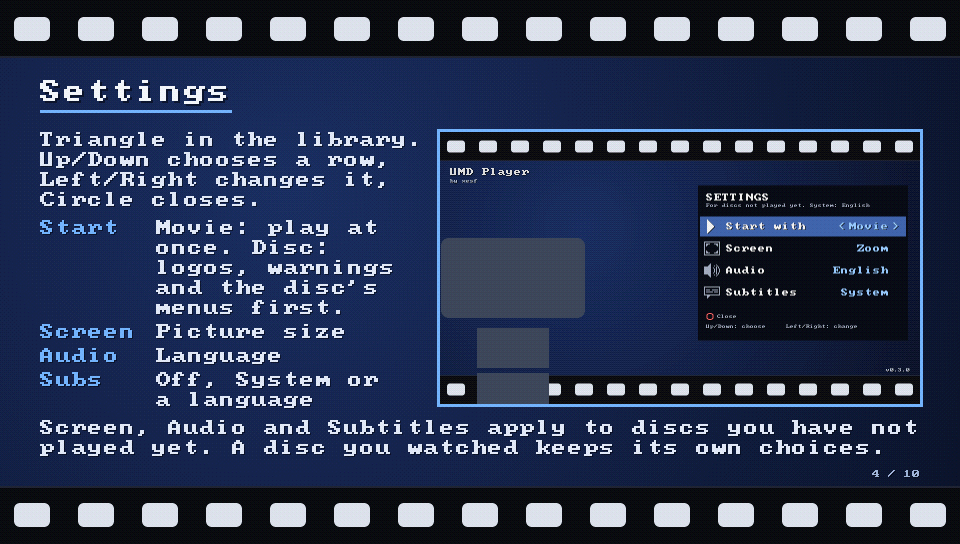
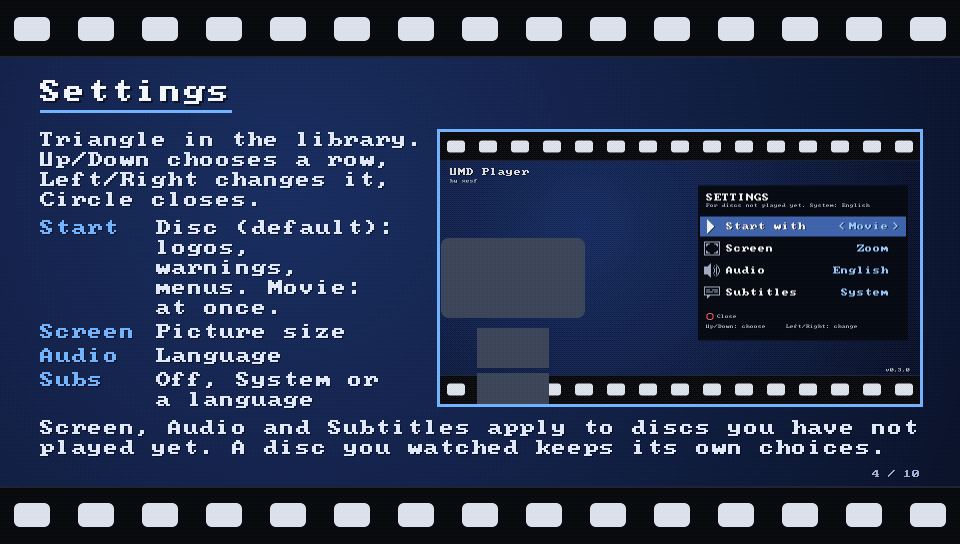
Release v0.6.4: Disc by default, key hints on desktop, settings hint
"Start with" defaults to Disc; a saved Movie setting is kept.

plat_keyboard_ui says whether hints should name keys: on the Vita never,
on macOS always, on Windows and Linux after a key press until a gamepad is
used (and not at first under Steam's Gaming Mode or on the Deck).
osd_button draws the button's icon or a key cap (Space, Esc, W, A), and
every hint goes through it; the library redraws when the input changes.

The library shows "Triangle Settings" (or W) left of the version.

Changed region(s): [[0.1562, 0.4062, 0.4062, 0.5938]]

diff --git a/src/app/library.c b/src/app/library.c
@@ -139,6 +139,7 @@ struct library {
     int show_info;                   /* SELECT toggles the title and resume panel */
     int touch_down, touch_x0, touch_y0, touch_step_y, touch_moved;   /* a finger on the screen */
     int settings_open, settings_row; /* △: the defaults for new discs */
+    int keys_shown;                  /* the hints name keyboard keys (plat_keyboard_ui) */
     int marks_stale;                 /* reread the resume points: a movie was played */
 };
 
@@ -690,9 +691,13 @@ static void draw_info(library *l)
     canvas *c = &l->ui;
     int x = PANEL_X + 16, y = BIG_Y, tx = x + 2 * ICON_SIZE + 8, w = 300;
     char title[96], at[16], total[16], line[48];
+    int bw = osd_button_width(ICON_BUTTON_CROSS, 2);
 
     if (!l->show_info)
         return;
+    if (osd_button_width(ICON_BUTTON_SQUARE, 2) > bw)
+        bw = osd_button_width(ICON_BUTTON_SQUARE, 2);
+    tx = x + bw + 8;
     canvas_text_fit(title, sizeof(title), d->title, 2, PANEL_W - 32);
     canvas_round_darken(c, PANEL_X, BIG_Y, PANEL_W, 2 * ICON_H, BIG_R, 90);   /* as tall as the icon */
     if (!d->has_resume) {
@@ -703,7 +708,7 @@ static void draw_info(library *l)
     }
     format_time(at, sizeof(at), d->resume_pos - d->resume_start);
     canvas_text(c, x, y + 18, 2, RGBA(255, 255, 255, 255), title);
-    canvas_icon(c, ICON_BUTTON_CROSS, x, y + 46, 2, COLOR_CROSS);
+    osd_button(c, x, y + 46, 2, ICON_BUTTON_CROSS);
     if (d->resume_disc) {
         snprintf(line, sizeof(line), "Continue where you left off");
     } else if (d->resume_end > d->resume_start) {
@@ -717,7 +722,7 @@ static void draw_info(library *l)
         snprintf(line, sizeof(line), "Resume at %s", at);
     }
     canvas_text(c, tx, y + 54, 2, RGBA(255, 255, 255, 255), line);
-    canvas_icon(c, ICON_BUTTON_SQUARE, x, y + 106, 2, COLOR_SQUARE);
+    osd_button(c, x, y + 106, 2, ICON_BUTTON_SQUARE);
     canvas_text(c, tx, y + 114, 2, TEXT_DIM, "Play from the start");
 }
 
@@ -946,6 +951,18 @@ static void draw_app_name(canvas *c, int y)
     canvas_text(c, 20, y + 22, 1, TEXT_DIM, "by xesf");
 }
 
+/* The version at the bottom right; with settings, the button that opens them to its left. */
+static void draw_version(canvas *c, int y, int settings)
+{
+    int vx = UI_W - 20 - canvas_text_width("v" UMDPLAYER_VERSION, 1);
+
+    canvas_text(c, vx, y, 1, TEXT_DIM, "v" UMDPLAYER_VERSION);
+    if (settings) {
+        int w = osd_button_width(ICON_BUTTON_TRIANGLE, 1) + 6 + canvas_text_width("Settings", 1);
+        osd_draw_hint(c, vx - 24 - w, y - 4, ICON_BUTTON_TRIANGLE, "Settings");
+    }
+}
+
 static void draw_ui(library *l)
 {
     canvas *c = &l->ui;
@@ -980,8 +997,7 @@ static void draw_ui(library *l)
     draw_settings(l);
     /* On the backdrop (a disc without PIC1), keep clear of its film strips. */
     draw_app_name(c, l->bg ? 18 : 72);
-    canvas_text(c, UI_W - 20 - canvas_text_width("v" UMDPLAYER_VERSION, 1), l->bg ? UI_H - 18 : UI_H - 72, 1, TEXT_DIM,
-                "v" UMDPLAYER_VERSION);
+    draw_version(c, l->bg ? UI_H - 18 : UI_H - 72, !l->settings_open);
 
     l->info.ui_rgba = c->rgba;
     l->info.ui_w = c->w;
@@ -1185,12 +1201,12 @@ static void draw_empty(library *l)
     y += 40;
     {
         const char *again = "Look again";
-        int x = (UI_W - (ICON_SIZE * 2 + 10 + canvas_text_width(again, 2))) / 2;
-        canvas_icon(c, ICON_BUTTON_CROSS, x, y - 8, 2, COLOR_CROSS);
-        canvas_text(c, x + ICON_SIZE * 2 + 10, y, 2, TEXT_DIM, again);
+        int bw = osd_button_width(ICON_BUTTON_CROSS, 2);
+        int x = (UI_W - (bw + 10 + canvas_text_width(again, 2))) / 2;
+        osd_button(c, x, y - 8, 2, ICON_BUTTON_CROSS);
+        canvas_text(c, x + bw + 10, y, 2, TEXT_DIM, again);
     }
-    canvas_text(c, UI_W - 20 - canvas_text_width("v" UMDPLAYER_VERSION, 1), UI_H - 72, 1, TEXT_DIM,
-                "v" UMDPLAYER_VERSION);   /* above the film strip */
+    draw_version(c, UI_H - 72, 0);   /* above the film strip */
     l->info.ui_rgba = c->rgba;
     l->info.ui_w = c->w;
     l->info.ui_h = c->h;
@@ -1250,6 +1266,11 @@ static uint32_t touch_buttons(library *l)
 int library_update(library *l, uint32_t pressed)
 {
     int present = 0;
+
+    if (plat_keyboard_ui() != l->keys_shown) {   /* keys or a gamepad: redraw the hints */
+        l->keys_shown = plat_keyboard_ui();
+        l->ui_dirty = 1;
+    }
 
     if (l->count == 0) {
         if (pressed & PLAT_BTN_CROSS) {

diff --git a/src/app/osd.c b/src/app/osd.c
@@ -1,5 +1,7 @@
 #include "osd.h"
 
+#include "../platform/platform.h"
+
 #include <stdio.h>
 #include <string.h>
 
@@ -28,10 +30,44 @@ static uint32_t button_color(icon_id b)
     }
 }
 
+/* The keys of docs/desktop.md's table, for the buttons that hints name. */
+static const char *key_name(icon_id b)
+{
+    switch (b) {
+    case ICON_BUTTON_CROSS: return "Space";
+    case ICON_BUTTON_CIRCLE: return "Esc";
+    case ICON_BUTTON_TRIANGLE: return "W";
+    case ICON_BUTTON_SQUARE: return "A";
+    default: return NULL;
+    }
+}
+
+int osd_button_width(icon_id button, int scale)
+{
+    const char *key = plat_keyboard_ui() ? key_name(button) : NULL;
+    return key ? canvas_text_width(key, scale) + 8 * scale : ICON_SIZE * scale;
+}
+
+int osd_button(canvas *c, int x, int y, int scale, icon_id button)
+{
+    const char *key = plat_keyboard_ui() ? key_name(button) : NULL;
+    int w = osd_button_width(button, scale), h = ICON_SIZE * scale;
+
+    if (!key) {
+        canvas_icon(c, button, x, y, scale, button_color(button));
+        return w;
+    }
+    /* a key cap: the key's name in a rounded outline, in the button's colour */
+    canvas_round_rect(c, x, y, w, h, 3 * scale, RGBA(20, 24, 36, 200));
+    canvas_round_ring(c, x, y, w, h, 3 * scale, scale, button_color(button));
+    canvas_text(c, x + 4 * scale, y + (h - 8 * scale) / 2, scale, TEXT, key);
+    return w;
+}
+
 int osd_draw_hint(canvas *c, int x, int y, icon_id button, const char *text)
 {
-    canvas_icon(c, button, x, y, 1, button_color(button));
-    return ICON_SIZE + 6 + canvas_text(c, x + ICON_SIZE + 6, y + 4, 1, TEXT_DIM, text) + 18;
+    int bw = osd_button(c, x, y, 1, button);
+    return bw + 6 + canvas_text(c, x + bw + 6, y + 4, 1, TEXT_DIM, text) + 18;
 }
 
 int osd_draw_status(canvas *c, int right, int top, const char *clock, int battery, int charging)

diff --git a/src/app/disc.c b/src/app/disc.c
@@ -367,12 +367,14 @@ int disc_update(disc *d, uint32_t pressed)
     {
         /* A page that takes the buttons over the movie (Saw's scene list): its Back may only
            hide it, and the way on is the PSP's menu button, so say which button that is. */
-        int hint = d->pl && !d->menu_video && !player_title_ended(d->pl) && menu_has_focus(d->m);
+        int hint = d->pl && !d->menu_video && !player_title_ended(d->pl) && menu_has_focus(d->m)
+                       ? 1 + plat_keyboard_ui() : 0;
         if (menu_dirty(d->m) || hint != d->hint_shown) {
             menu_draw(d->m, &d->layer);
             d->layer_shown = layer_has_pixels(&d->layer);
             if (hint) {
-                canvas_rect(&d->layer, 16, LAYER_H - 48, 150, 32, RGBA(10, 14, 28, 190));
+                canvas_rect(&d->layer, 16, LAYER_H - 48, 110 + osd_button_width(ICON_BUTTON_TRIANGLE, 1), 32,
+                            RGBA(10, 14, 28, 190));
                 osd_draw_hint(&d->layer, 24, LAYER_H - 40, ICON_BUTTON_TRIANGLE, "Disc menu");
                 d->layer_shown = 1;
             }

diff --git a/src/platform/linux/linux_main.c b/src/platform/linux/linux_main.c
@@ -182,12 +182,27 @@ static void poll_pads(void)
     }
 }
 
+/* The last input came from the keyboard; -1 before any. Steam sets SteamDeck on the Deck
+   and SteamGamepadUI in Gaming Mode, where the controls are a gamepad. */
+static int keys_last = -1;
+
 uint32_t plat_buttons(void)
 {
-    uint32_t b = key_buttons;
+    uint32_t pad = 0;
     for (int i = 0; i < pad_count; i++)
-        b |= pads[i].buttons | pads[i].hat | pads[i].stick;
-    return b;
+        pad |= pads[i].buttons | pads[i].hat | pads[i].stick;
+    if (pad)
+        keys_last = 0;
+    else if (key_buttons)
+        keys_last = 1;
+    return key_buttons | pad;
+}
+
+int plat_keyboard_ui(void)
+{
+    if (keys_last < 0)
+        return !getenv("SteamDeck") && !getenv("SteamGamepadUI");
+    return keys_last;
 }
 
 int plat_touch(int *x, int *y)

diff --git a/tools/make_manual.py b/tools/make_manual.py
@@ -166,7 +166,7 @@ def main():
     put_half(p.c, os.path.join(shots, 'settings.png'), W - LEFT - 480, p.y)
     p.para('Triangle in the library. Up/Down chooses a row, Left/Right changes it, Circle closes.',
            chars=25)
-    p.rows([('Start', 'Movie: play at once. Disc: logos, warnings and the disc\'s menus first.'),
+    p.rows([('Start', 'Disc (default): logos, warnings, menus. Movie: at once.'),
             ('Screen', 'Picture size'), ('Audio', 'Language'), ('Subs', 'Off, System or a language')],
            key_w=116, chars=15)
     p.y = max(p.y, BAND + 74 + 272 + 16)

diff --git a/src/app/osd.h b/src/app/osd.h
@@ -50,5 +50,9 @@ void osd_bar_area(int w, int h, int *top, int *x0, int *x1);
 
 /* A key hint: a button icon followed by text. Returns the width drawn. */
 int osd_draw_hint(canvas *c, int x, int y, icon_id button, const char *text);
+/* A button (ICON_BUTTON_*) ICON_SIZE * scale high: its icon on the Vita and with a gamepad,
+   the key that does the same on a keyboard ("Space"). Returns the width drawn. */
+int osd_button(canvas *c, int x, int y, int scale, icon_id button);
+int osd_button_width(icon_id button, int scale);
 
 #endif

diff --git a/src/platform/platform.h b/src/platform/platform.h
@@ -135,6 +135,9 @@ void plat_language(char out[3]);
 /* One character the 8x8 font lacks, drawn with the system's fonts: see canvas_glyph_fn in
    core/canvas.h. Returns 0 when no font has it. */
 int plat_glyph(uint32_t cp, int px, uint8_t *alpha);
+/* 1 when the hints on screen should name keyboard keys (Space, Esc, W, A) instead of the
+   Vita's buttons: on computers, until a gamepad is used. */
+int plat_keyboard_ui(void);
 
 typedef struct plat_status {
     int year, month, day, hour, minute;   /* local time */

diff --git a/src/platform/windows/win_main.c b/src/platform/windows/win_main.c
@@ -79,9 +79,21 @@ static uint32_t pad_buttons(void)
     return b;
 }
 
+static int keys_last = 1;         /* the last input came from the keyboard */
+
 uint32_t plat_buttons(void)
 {
-    return key_buttons | pad_buttons();
+    uint32_t keys = key_buttons, pad = pad_buttons();
+    if (pad)
+        keys_last = 0;
+    else if (keys)
+        keys_last = 1;
+    return keys | pad;
+}
+
+int plat_keyboard_ui(void)
+{
+    return keys_last;
 }
 
 int plat_touch(int *x, int *y)

diff --git a/src/app/settings.c b/src/app/settings.c
@@ -53,6 +53,7 @@ app_settings *settings_get(void)
         return &s;
     loaded = 1;
     s.screen = SCREEN_ZOOM;
+    s.start_disc = 1;                 /* a disc plays as on a PSP: logos, warnings, menus */
     snprintf(s.audio, sizeof(s.audio), "en");
     snprintf(s.subs, sizeof(s.subs), SUBS_SYSTEM);
     if ((n = plat_data_load(FILE_NAME, buf, (int)sizeof(buf) - 1)) <= 0)

diff --git a/src/platform/null/null_platform.c b/src/platform/null/null_platform.c
@@ -266,6 +266,9 @@ void plat_audio_close(void)
 uint32_t null_buttons;
 uint32_t plat_buttons(void) { return null_buttons; }
 
+/* Tests see the key hints with UMD_KEY_HINTS set. */
+int plat_keyboard_ui(void) { return getenv("UMD_KEY_HINTS") != NULL; }
+
 int null_touch_down, null_touch_x, null_touch_y;
 int plat_touch(int *x, int *y)
 {

diff --git a/tools/make_assets.py b/tools/make_assets.py
@@ -367,7 +367,7 @@ def backdrop(png_path, c_path):
 
 
 TEMPLATE = '''<?xml version="1.0" encoding="utf-8"?>
-<livearea style="a1" format-ver="01.00" content-rev="18">
+<livearea style="a1" format-ver="01.00" content-rev="19">
   <livearea-background>
     <image>bg.png</image>
   </livearea-background>

diff --git a/src/platform/macos/mac_main.m b/src/platform/macos/mac_main.m
@@ -120,6 +120,11 @@ uint32_t plat_buttons(void)
     return held_buttons;
 }
 
+int plat_keyboard_ui(void)
+{
+    return 1;                 /* no gamepads on macOS yet */
+}
+
 int plat_touch(int *x, int *y)
 {
     if (!touch_down)
